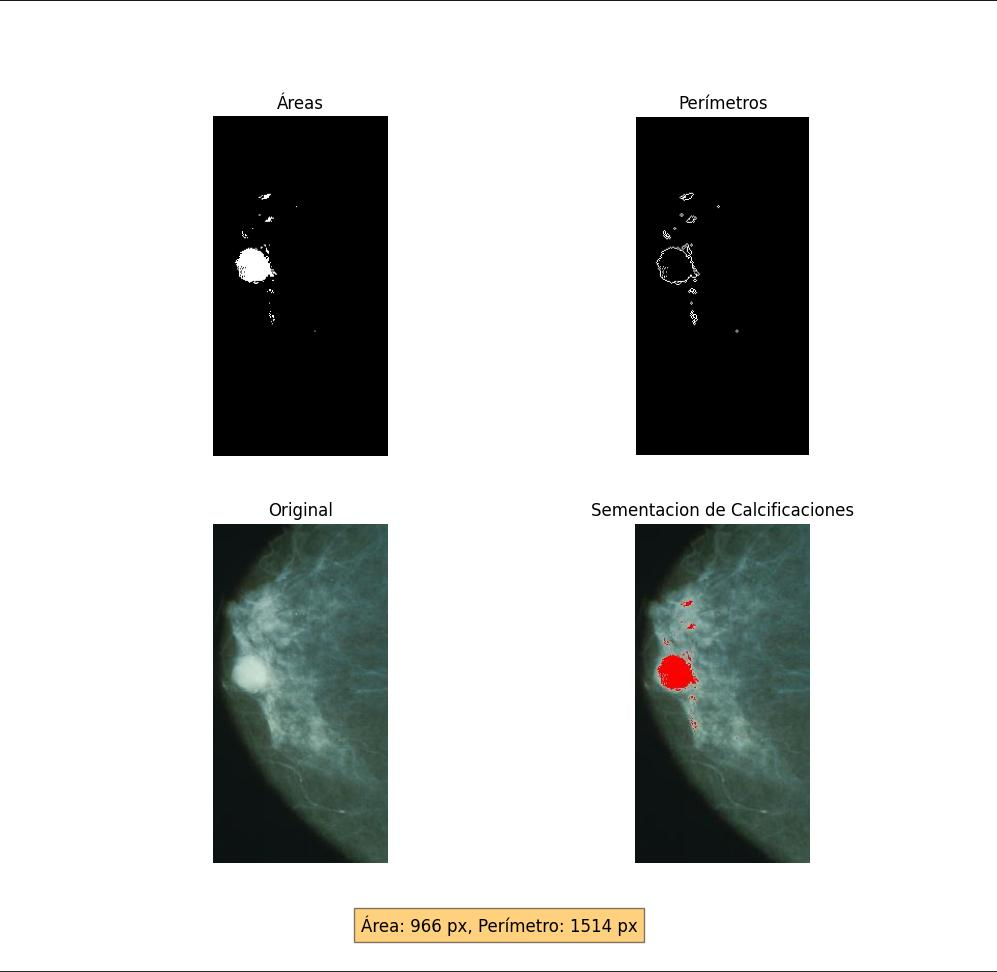
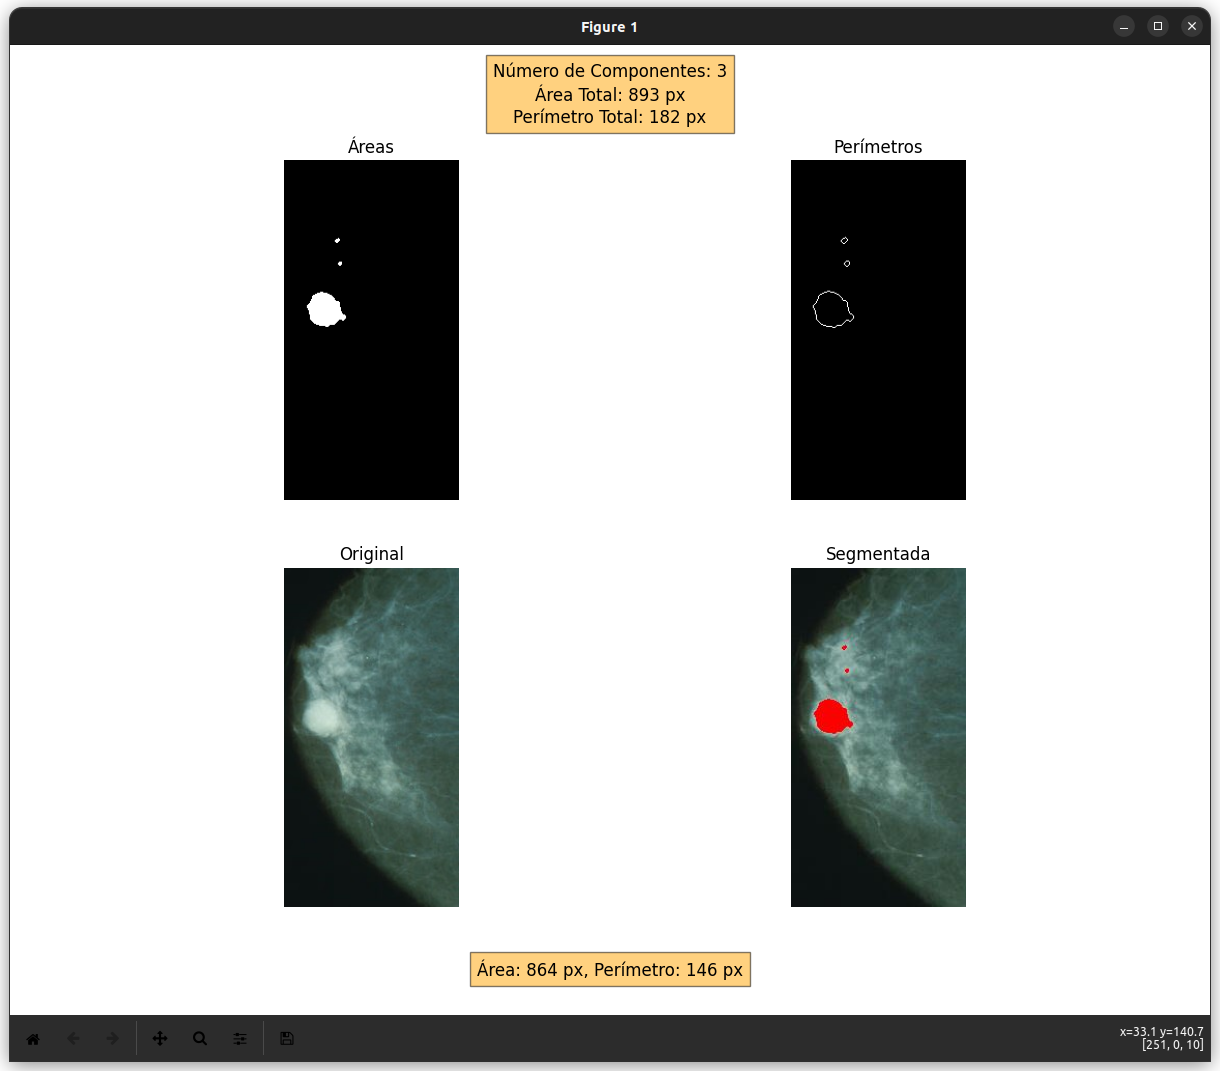
Mostrar datos de medicion en la interfaz grafica

Changed region(s): [[0.0, 0.0, 1.0, 1.0], [0.6219, 0.0926, 0.8084, 0.4938]]

diff --git a/Segmentacion/deteccionCal.py b/Segmentacion/deteccionCal.py
@@ -6,6 +6,7 @@ from scipy import ndimage
 import matplotlib.pyplot as plt
 import matplotlib.image as mpimg
 from PIL import Image, ImageFilter
+import math
 
 coord_x = None
 coord_y = None
@@ -49,6 +50,13 @@ def ajustar_gamma(image, gamma):
 
     return cv2.LUT(image, table)
 
+def topBrillante(arr, porcentaje):
+    arrOrdenado = np.sort(arr)[::-1]
+    porcentaje = porcentaje / 10.0
+    numElementos = math.ceil(len(arrOrdenado) * porcentaje)
+    topPixel = arrOrdenado[:numElementos]
+
+    return topPixel
 
 def segmentacion(ruta, rutaOriginal):
     image = Image.open(ruta)
@@ -74,13 +82,13 @@ def segmentacion(ruta, rutaOriginal):
         positions = np.argwhere(labeled_array == label_num)
         
         # Revisar si alguno de los píxeles está en el borde
-        touching_border = np.any(positions[:, 0] == 0) or \
+        tocandoBorde = np.any(positions[:, 0] == 0) or \
                         np.any(positions[:, 1] == 0) or \
                         np.any(positions[:, 0] == labeled_array.shape[0] - 1) or \
                         np.any(positions[:, 1] == labeled_array.shape[1] - 1)
         
         # Si el componente está tocando el borde, se excluye de la máscara
-        if touching_border:
+        if tocandoBorde:
             mask[labeled_array == label_num] = False
 
     # Aplicar la máscara para obtener la imagen final
@@ -192,7 +200,15 @@ def cal_area_y_perimetro(rutaImagen):
         matriz_areas[i][j] = areas[etiqueta]
         matriz_perimetros[i][j] = perimetros[etiqueta]
 
-    return matriz_areas, matriz_perimetros
+    # Calculando el número total de componentes
+    numero_componentes = len(areas)
+
+    # Calculando la suma total del área y el perímetro
+    suma_area_total = sum(areas.values())
+    suma_perimetro_total = sum(perimetros.values())
+
+    return matriz_areas, matriz_perimetros, numero_componentes, suma_area_total, suma_perimetro_total
+
 
 
 
@@ -247,7 +263,7 @@ def main():
     ruta_contorno = deteccionBordes('imagen_umbralizada.png')
 
     global valoresArea, valoresPerimetro, areaComponente, perimetroComponente
-    valoresArea, valoresPerimetro = cal_area_y_perimetro('imagen_umbralizada.png')
+    valoresArea, valoresPerimetro, numeroComponentes, suma_area_total, suma_perimetro_total = cal_area_y_perimetro('imagen_umbralizada.png')
     img_segmentada = 'imagenSegmentada.jpg'
 
     areas = mpimg.imread(mascara_segmentacion)
@@ -255,7 +271,7 @@ def main():
     img_segmentada = mpimg.imread('imagenSegmentada.jpg')
     original = mpimg.imread(ruta)
 
-    plt.figure(figsize=(10, 10))
+    plt.figure(figsize=(12, 12))
 
     # Mostrar las imágenes
     plt.subplot(2, 2, 1)
@@ -277,6 +293,13 @@ def main():
     plt.imshow(img_segmentada)
     plt.axis('off')
     plt.title('Segmentada')
+
+    infoGeneral = f'Número de Componentes: {numeroComponentes}\n' \
+                    f'Área Total: {suma_area_total} px\n' \
+                    f'Perímetro Total: {suma_perimetro_total} px'
+    plt.figtext(0.5, 0.92, infoGeneral, ha="center", fontsize=12, 
+                bbox={"facecolor":"orange", "alpha":0.5, "pad":5})
+
 
     global texto_area_perimetro
     texto_area_perimetro = plt.figtext(0.5, 0.04, 'Área: 0 px, Perímetro: 0 px', ha="center", fontsize=12, bbox={"facecolor":"orange", "alpha":0.5, "pad":5})

diff --git a/Segmentacion/diagrama.py b/Segmentacion/diagrama.py
@@ -1,0 +1,85 @@
+from matplotlib import pyplot as plt
+import matplotlib.patches as mpatches
+from matplotlib.offsetbox import OffsetImage, AnnotationBbox
+
+def create_updated_process_diagram():
+
+    fig, ax = plt.subplots(figsize=(14, 8))
+
+
+
+    # Defining the updated process steps
+
+    steps = [
+
+        "Leer y Abrir Imagen", 
+
+        "Preprocesamiento", 
+
+        "Segmentación", 
+
+        "Obtener Medidas y Bordes", 
+
+        "Mostrar Resultados"
+
+    ]
+
+    substeps = [
+
+        ["Leer ruta", "Abrir imagen"],
+
+        ["Escala de grises", "Filtro mínimo", "Umbralizar", "Operación AND", "Guardar resultado"],
+
+        ["Filtro gamma", "Top 2% brillante", "Descartar bordes", "Filtro mediana", "Máscara binaria", "Resaltar máscara"],
+
+        ["Operador Prewitt", "Etiquetar objetos", "Calcular área", "Calcular perímetro", "Asignar valores"],
+
+        []
+
+    ]
+
+
+
+    # Creating process boxes
+
+    for i, step in enumerate(steps):
+
+        rect = mpatches.FancyBboxPatch((0.05, 1 - 0.18 * i), 0.2, 0.15, boxstyle="round,pad=0.1", ec="none", color="skyblue")
+
+        ax.add_patch(rect)
+
+        ax.text(0.15, 1 - 0.18 * i + 0.075, step, ha="center", va="center", fontsize=12, color="black")
+
+        
+
+        substep_width = 0.12  # Adjusted width for substeps
+
+        for j, substep in enumerate(substeps[i]):
+
+            sub_rect = mpatches.FancyBboxPatch((0.3 + substep_width * j, 1 - 0.18 * i), substep_width, 0.15, boxstyle="round,pad=0.01", ec="none", color="lightgreen")
+
+            ax.add_patch(sub_rect)
+
+            ax.text(0.3 + substep_width * j + substep_width / 2, 1 - 0.18 * i + 0.075, substep, ha="center", va="center", fontsize=9, color="black", wrap=True)
+
+
+
+    # Setting general plot properties
+
+    ax.set_xlim(0, 1)
+
+    ax.set_ylim(0, 1)
+
+    ax.axis('off')
+
+
+
+    return fig
+
+
+
+# Create and display the updated process diagram with additional steps
+
+fig = create_updated_process_diagram()
+
+plt.show()
